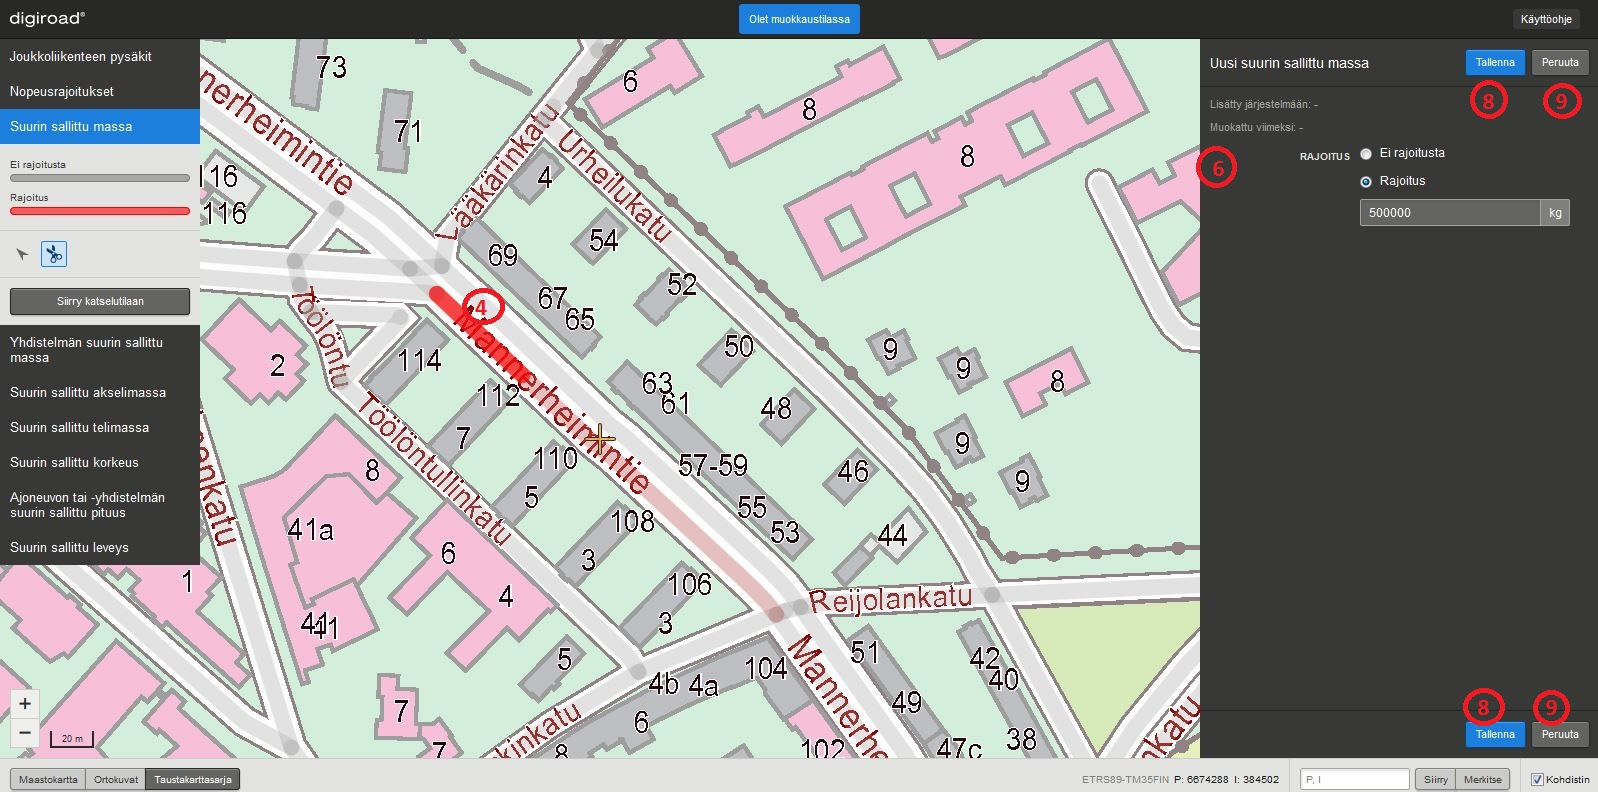
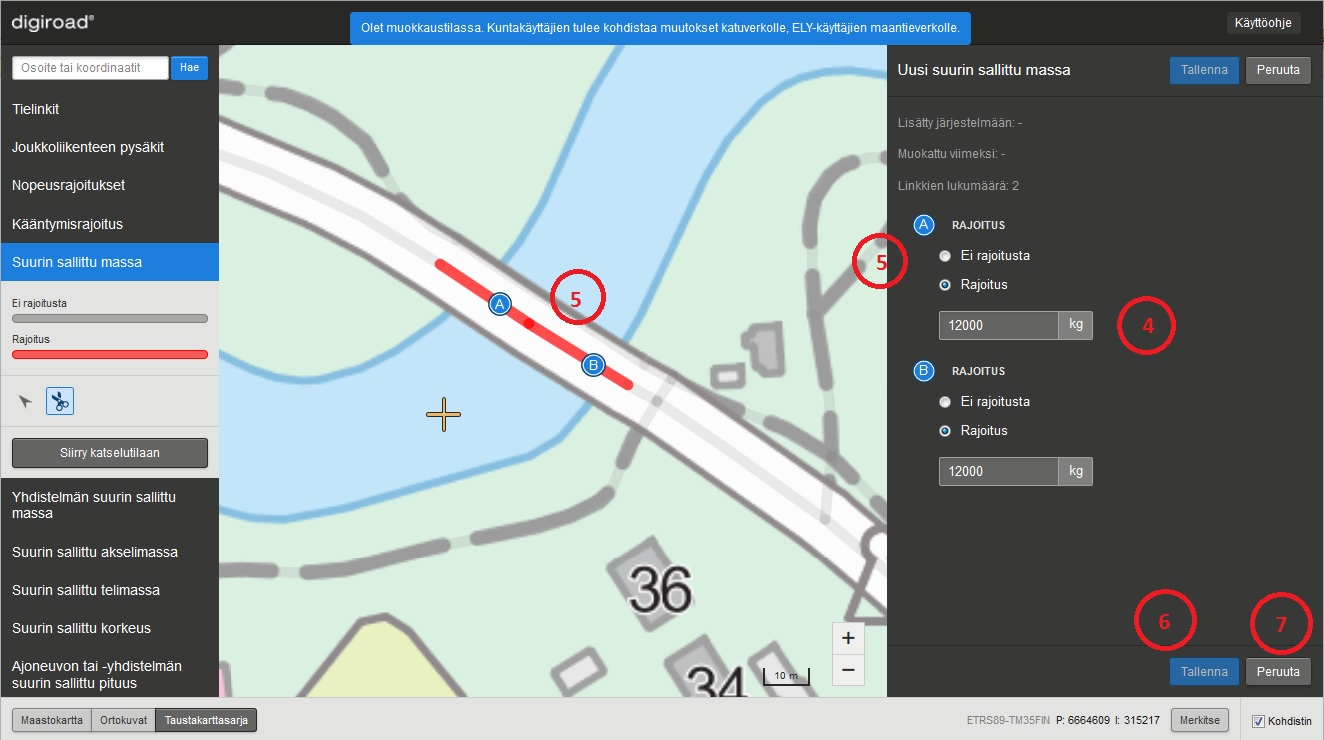
update manuals

diff --git a/UI/manual/index.md b/UI/manual/index.md
@@ -578,7 +578,7 @@ _Suurin sallittu -valinta._
 
 ##Suurin sallittu x7 tietojen katselu##
 
-Yksitt&auml;isen suurin sallittu -kohteen voi valita klikkaamalla kartalta sen geometriaa (4). Geometria tummentuu ja muut geometriat n&auml;kyv&auml;t haaleammalla. Sivun oikeaan laitaan avautuu valitun kohteen ominaisuustieton&auml;kym&auml; (6).
+Yksitt&auml;isen suurin sallittu -kohteen voi valita klikkaamalla kartalta sen geometriaa (4). Kerran klikkaamalla tulee valituksi koko rajoitusketju, eli kaikki rajoitukset, joilla on sama rajoituksen arvo ja tiennumero (maantiell&auml;) tai tien nimi (katuverkko ja yksityistie). Jos k&auml;ytt&auml;j&auml; haluaa valita vain yhden linkin mittaisen p&auml;tk&auml;n tarkasteluun, sen voi tehd&auml; tuplaklikkaamalla rajoitusta. Geometria tummentuu ja muut geometriat n&auml;kyv&auml;t haaleammalla. Sivun oikeaan laitaan avautuu valitun rajoituksen tai rajoitusketjun ominaisuustieton&auml;kym&auml; (6).
 
 ![Suurimman sallitun tietojen katselu](k31.JPG)
 
@@ -586,7 +586,15 @@ _Suurin sallittu -katselutila._
 
 ##Suurin sallittu x7 ominaisuustietojen muokkaus##
 
-Suurin sallittu -valintaa muokataan muokkaustilassa. Muokattava kohde valitaan klikkaamalla sen geometriaa (4). Tietoja muokataan ominaisuustieton&auml;kym&auml;ss&auml; (6). Muutokset tallennetaan painamalla Tallenna-painiketta oikeasta alakulmasta (8). Ennen Tallenna-painikkeen painamista muutokset voi peruuttaa painamalla Peruuta-painiketta (9). Tallenna- ja Peruuta -painikkeet eiv&auml;t ole aktiivisina, jos muutoksia ei ole tehty. Jos muutoksia on tehty eik&auml; niit&auml; ole tallennettu tai peruutettu ja siirryt&auml;&auml;n pois painorajoituksen valinnasta, sovellus antaa muutos-dialogin. Muutos-dialogi kertoo k&auml;ytt&auml;j&auml;lle, ett&auml; muutoksia on tehty ja ne tulee tallentaa tai peruuttaa ennen kuin voi jatkaa.
+Muokkaustilassa Suurin sallittu -rajoituksille voi antaa uusia arvoja ja niit&auml; voi katkaista. Rajoituksien arvoja voi muokata kolmella tavalla:
+1.	Koko rajoitusketjulle kerralla.
+2.	Yksitt&auml;isen linkin mittaiselle osuudelle.
+3.	Monivalinnan avulla kokonaiselle alueelle.
+
+
+###Rajoituksen arvon muokkaus###
+
+Suurin sallittu -valintaa muokataan muokkaustilassa. Muokattava kohde valitaan klikkaamalla sen geometriaa (4). Kerran klikkaamalla tulee valituksi koko rajoitusketju, eli kaikki per&auml;kk&auml;iset rajoitukset, joilla on sama arvo ja tiennumero (maantiell&auml;) tai tien nimi (katuverkko ja yksityistie). Tietoja muokataan ominaisuustieton&auml;kym&auml;ss&auml; (6). Muutokset tallennetaan painamalla Tallenna-painiketta oikeasta alakulmasta (8). Ennen Tallenna-painikkeen painamista muutokset voi peruuttaa painamalla Peruuta-painiketta (9). Tallenna- ja Peruuta -painikkeet eiv&auml;t ole aktiivisina, jos muutoksia ei ole tehty. Jos muutoksia on tehty eik&auml; niit&auml; ole tallennettu tai peruutettu ja siirryt&auml;&auml;n pois painorajoituksen valinnasta, sovellus antaa muutos-dialogin. Muutos-dialogi kertoo k&auml;ytt&auml;j&auml;lle, ett&auml; muutoksia on tehty ja ne tulee tallentaa tai peruuttaa ennen kuin voi jatkaa.
 
 Huom! Rajoituksen arvokent&auml;ss&auml; muiden kuin numeroarvojen tallentaminen aiheuttaa virhetilanteita tallentuvissa rajoituksissa.
 
@@ -594,15 +602,27 @@ Huom! Rajoituksen arvokent&auml;ss&auml; muiden kuin numeroarvojen tallentaminen
 
 _Suurin sallittu -valinnan muokkaus._
 
+###Suurin sallittu -kohteiden muokkaus monivalintaty&ouml;kalulla###
+
+Useamman kuin yhden rajoituksen arvon voi muuttaa kerralla. Halutut rajoitukset valitaan painamalla Ctrl-painike n&auml;pp&auml;imist&ouml;lt&auml; pohjaan ja piirt&auml;m&auml;ll&auml; hiiren vasen painike pohjassa laatikko rajoitusten p&auml;&auml;lle. Valituksi tulevat kaikki linkit laatikon sis&auml;ll&auml; ja linkit, joita laatikko leikkaa. Valinnan j&auml;lkeen avautuu ikkuna, jossa valitaan rajoituksille tallentuva arvo ja painetaan tallenna. Peruuta-painikkeesta voi perua muutoksen.
+
+![Useamman rajoituksen arvon muokkaus kerralla](k62.JPG)
+
+_Useamman rajoituksen arvon muokkaus kerralla._
+
 ####Suurin sallittu -kohteen katkaisu####
 
 Rajoituksen voi jakaa kahteen osaan leikkausty&ouml;kalulla (1). Siten leikkausty&ouml;kalun avulla voi m&auml;&auml;ritell&auml; lyhyit&auml; rajoituksia poistamalla voimasta katkaisussa j&auml;ljelle j&auml;&auml;neit&auml; rajoituksia. Leikkausty&ouml;kalulla klikataan rajoituksen geometriasta kohtaa, josta rajoitus halutaan katkaista. Rajoituksen geometrian p&auml;&auml;ll&auml; ty&ouml;kalu n&auml;kyy ristin&auml;, jotta tarkka katkaisukohta on helppo m&auml;&auml;ritt&auml;&auml; (2). 
+
+Rajoituksen katkaisu valitsee aina vain linkin mittaisen osion rajoituksesta, ei koko rajoitusketjua.
 
 ![Suurin sallittu -kohteen katkaisu](k35.JPG)
 
 _Suurin sallittu -kohteen katkaisu._
 
-Katkaistun rajoituksen osista pidemm&auml;lle j&auml;&auml; alkuper&auml;isen rajoituksen ID ja arvo. Lyhyempi osa tulee valituksi kartalla (4) ja sen ominaisuustiedot avautuvat ominaisuustieton&auml;kym&auml;&auml;n (6). Arvokentt&auml;&auml;n voi kirjata rajoitukselle uuden arvon, sen voi j&auml;tt&auml;&auml; ennalleen tai poistaa voimasta valitsemalla ”Ei rajoitusta”. Oletusarvona on sama rajoituksen arvo kuin alkuper&auml;isell&auml; rajoituksella. Uusi rajoitus tallennetaan Tallenna-painikkeesta (8). Tallentamisen j&auml;lkeen rajoitukselle generoidaan taustaj&auml;rjestelm&auml;ss&auml; ID. Ennen tallennusta rajoituksen katkaisemisen voi perua Peruuta-painikkeesta, joka palauttaa alkuper&auml;isen rajoituksen voimaan (9).
+Katkaistun rajoituksen osista pidemm&auml;lle j&auml;&auml; alkuper&auml;isen ID, ja lyhyemm&auml;lle generoidaan uusi ID. Rajoituksen katkaisussa uusille rajoituksille valitaan arvot oikean laidan valikoista (4). Kartalla ja valikkojen vieress&auml; olevat kirjaimet osoittavat, kummasta rajoituksesta on kyse (5). Uudet rajoitukset tallennetaan tallenna-painikkeesta (6). Katkaisun voi peruuttaa peruuta-painikkeella (7), jolloin alkuper&auml;inen rajoitus j&auml;&auml; voimaan.
+
+Huom! Rajoituksen katkaisussa tulee m&auml;&auml;ritt&auml;&auml; uusille rajoituksille eri arvot, jotta tallennus on mahdollista.
 
 ![Suurin sallittu -kohteen katkaisu](k36.JPG)
 
@@ -618,7 +638,7 @@ _Suurin sallittu -kohteen poistaminen._
 
 ####Uuden suurin sallittu -kohteen lis&auml;&auml;minen####
 
-Tielinkille voi lis&auml;t&auml; suurin sallittu -kohteen valitsemalla sen geometrian (4) Suurin sallittu -muokkaustilassa. Ominaisuustieton&auml;kym&auml;&auml;n (6) avautuu tielinkin suurin sallittu -kohteen tiedot. Valitaan "Rajoitus" ja sy&ouml;tet&auml;&auml;n suurin sallittu arvo sy&ouml;tekentt&auml;&auml;n. Suurin sallittu arvo tallennetaan painamalla Tallenna (8). Uuden suurin sallittu -kohteen lis&auml;&auml;misen voi perua Peruuta-painikkeella.
+Tielinkille voi lis&auml;t&auml; suurin sallittu -kohteen valitsemalla linkin geometrian (4) Suurin sallittu -muokkaustilassa. Ominaisuustieton&auml;kym&auml;&auml;n (6) avautuu tielinkin suurin sallittu -kohteen tiedot. Valitaan "Rajoitus" ja sy&ouml;tet&auml;&auml;n suurin sallittu arvo sy&ouml;tekentt&auml;&auml;n. Suurin sallittu arvo tallennetaan painamalla Tallenna (8). Uuden suurin sallittu -kohteen lis&auml;&auml;misen voi perua Peruuta-painikkeella (9).
 
 ![Suurin sallittu -kohteen lis&auml;ys](k34.JPG)
 
@@ -627,7 +647,7 @@ _Suurin sallittu -kohteen lis&auml;&auml;minen._
 8. Valaistu tie
 ----------------------
 
-Valaistu tie on viivamainen kohde. Valaistus voi olla tielinkin mittainen tai sit&auml; lyhyempi viiva. Valaistu tie -tietolajin saa kartalle valitsemalla sen tietolaji-paletista (1). Kohteet tulevat n&auml;kyviin kartalle, kun zoomaa l&auml;hemm&auml;ksi. Jos tielinkille on ilmoitettu valaistus, se piirtyy kartalle punaisella viivalla (2). Valaisemattomat tielinkit ovat harmaita (3).  Valaistuksen arvo on kyll&auml; tai ei. 
+Valaistu tie on viivamainen kohde. Valaistus voi olla tielinkin mittainen tai sit&auml; lyhyempi viiva. Valaistu tie -tietolajin saa kartalle valitsemalla sen tietolaji-paletista (1). Kohteet tulevat n&auml;kyviin kartalle, kun zoomaa l&auml;hemm&auml;ksi. Jos tielinkille on ilmoitettu valaistus, se piirtyy kartalle punaisella viivalla (2). Valaisemattomat tielinkit ovat harmaita (3). Valaistuksen arvo on kyll&auml; tai ei. 
 
 ![Valaistu tie](k57.jpg)
 
@@ -635,7 +655,7 @@ _Valaistu tie._
 
 ##Valaistustietojen katselu##
 
-Kun kohdetta klikkaa kartalta, se korostuu (4) ja ominaisuustietotauluun tulee n&auml;kyviin sen tiedot (5). Valaistuksella on ID, lis&auml;tty j&auml;rjestelm&auml;&auml;n ja muokattu viimeksi -tiedot sek&auml; valaistuksen arvo kyll&auml;/ei.
+Kun kohdetta klikkaa kartalta, se korostuu (4). ja ominaisuustietotauluun tulee n&auml;kyviin sen tiedot (5). Kerran klikkaamalla tulee valituksi koko valaistusketju, eli kaikki linkit, joilla on sama valaistustieto ja tiennumero (maantiell&auml;) tai tien nimi (katuverkko ja yksityistie). Jos k&auml;ytt&auml;j&auml; haluaa valita vain yhden linkin mittaisen p&auml;tk&auml;n tarkasteluun, sen voi tehd&auml; tuplaklikkaamalla linkki&auml;. Valaistuksella on ID, lis&auml;tty j&auml;rjestelm&auml;&auml;n ja muokattu viimeksi -tiedot sek&auml; valaistuksen arvo kyll&auml;/ei, sek&auml; tieto linkkien lukum&auml;&auml;r&auml;st&auml; valaistusketjussa.
 
 ![Valaistustiedon katselu](k58.jpg)
 
@@ -645,11 +665,15 @@ _Valaistustiedon katselu._
 
 Valaistus-tietoja voi muokata muokkaustilassa. Valaistuksen voi lis&auml;t&auml;, poistaa ja valaistusgeometrian voi katkaista. Muutokset tallennetaan aina Tallenna-painikkeesta tai perutaan Peruuta-painikkeesta, jolloin alkuper&auml;inen tieto j&auml;&auml; voimaan.
 
+###Valaistustiedon lis&auml;ys###
+
 Uusi valaistus lis&auml;t&auml;&auml;n valitsemalla kartalta harmaa geometria ja valitsemalla oikean laidan ominaisuustietotaulussa "Valaistus" (6). Uusi valaistus-tieto n&auml;kyy kartalla punaisena.
 
 ![Valaistustiedon lis&auml;ys](k59.jpg)
 
 _Valaistustiedon lis&auml;ys._
+
+###Valaistustiedon poistaminen###
 
 Valaistustiedon voi poistaa valitsemalla valaistun kohteen ja oikean laidan ominaisuustietotaulusta kohdan "Ei valaistusta" (7). Kun valaistustieto on poistettu, kohde muuttuu kartalla harmaaksi.
 
@@ -657,7 +681,19 @@ Valaistustiedon voi poistaa valitsemalla valaistun kohteen ja oikean laidan omin
 
 _Valaistustiedon poistaminen._
 
-Tarvittaessa valaistuksen voi katkaista leikkausty&ouml;kalulla (8). Leikkausty&ouml;kalulla klikataan valaistuksen geometriasta kohtaa, josta se halutaan katkaista. Valaistuksen geometrian p&auml;&auml;ll&auml; ty&ouml;kalu n&auml;kyy ristin&auml;, jotta tarkka katkaisukohta on helppo m&auml;&auml;ritt&auml;&auml;. Katkaisun j&auml;lkeen valituksi j&auml;&auml; lyhyempi p&auml;tk&auml;, jolle voi tallentaa tiedon valaistuksesta ominaisuustietotauluun (9).
+###Valaistuksen muokkaus monivalintaty&ouml;kalulla###
+
+Usealle linkille voi lis&auml;t&auml; tai poistaa valaistuksen kerralla pit&auml;m&auml;ll&auml; muokkaustilassa n&auml;pp&auml;imist&ouml;lt&auml; Ctrl-painiketta pohjassa ja piirt&auml;m&auml;ll&auml; laatikko haluttujen linkkien p&auml;&auml;lle hiiren vasemmalla n&auml;pp&auml;imell&auml;. Valituksi tulevat kaikki linkit laatikon sis&auml;ll&auml; ja linkit, joita laatikko leikkaa. Valinnan j&auml;lkeen avautuu ikkuna, jossa valitaan valaistuksen arvo ja painetaan tallenna. Peruuta-painikkeesta voi perua muutoksen.
+
+![Valaistuksen monivalinta](k63.JPG)
+
+_Valaistuksen monivalinta._
+
+###Valaistuksen katkaisu###
+
+Tarvittaessa valaistuksen voi katkaista leikkausty&ouml;kalulla (8). Leikkausty&ouml;kalulla klikataan valaistuksen geometriasta kohtaa, josta se halutaan katkaista. Valaistuksen geometrian p&auml;&auml;ll&auml; ty&ouml;kalu n&auml;kyy ristin&auml;, jotta tarkka katkaisukohta on helppo m&auml;&auml;ritt&auml;&auml;. Rajoituksen katkaisussa uusille rajoituksille valitaan arvot oikean laidan valikoista (4). Kartalla ja valikkojen vieress&auml; olevat kirjaimet osoittavat, kummasta rajoituksesta on kyse (5). Uudet nopeusrajoitukset tallennetaan tallenna-painikkeesta (6). Katkaisun voi peruuttaa peruuta-painikkeella (7), jolloin alkuper&auml;inen rajoitus j&auml;&auml; voimaan.
+
+Huom! Valaistuksen katkaisussa tulee m&auml;&auml;ritt&auml;&auml; uusille rajoituksille eri arvot, jotta tallennus on mahdollista.
 
 ![Valaistusgeometrian katkaisu](k61.jpg)
 

diff --git a/UI/manual/operaattorimanuaali.md b/UI/manual/operaattorimanuaali.md
@@ -70,6 +70,7 @@ Tuonnin onnistuessa j&auml;rjestelm&auml; ilmoittaa:"CSV tiedosto k&auml;sitelty
 
 Huomioita csv-tiedostosta:
 
+- CSV-tuonti ei toimi oikein, jos tiedostossa on pys&auml;kkej&auml;, jotka ovat irti geometriasta (floating)
 - .csv-tiedoston encoding-valinnan tulee olla "Encode in UTF-8 without BOM", encodingin saa vaihettua esimerkiksi Notepad++:lla
 - Tiedoston tulee sis&auml;lt&auml;&auml; kaikki tietokent&auml;t, vaikka niit&auml; ei p&auml;ivitett&auml;isik&auml;&auml;n. Esimerkki:
 
